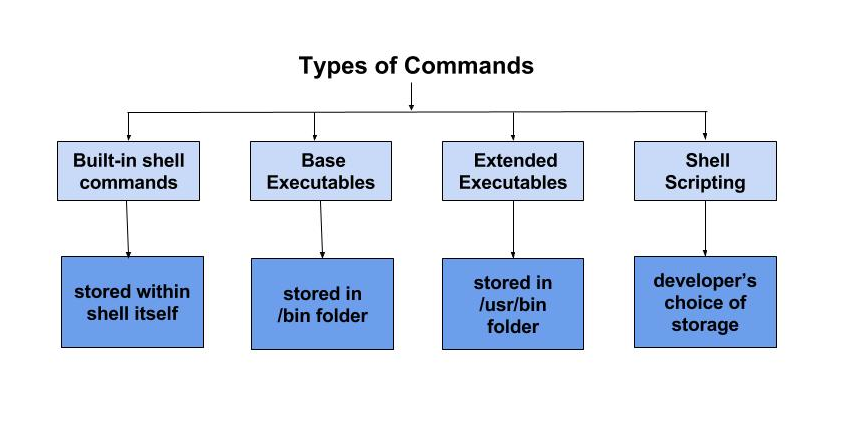
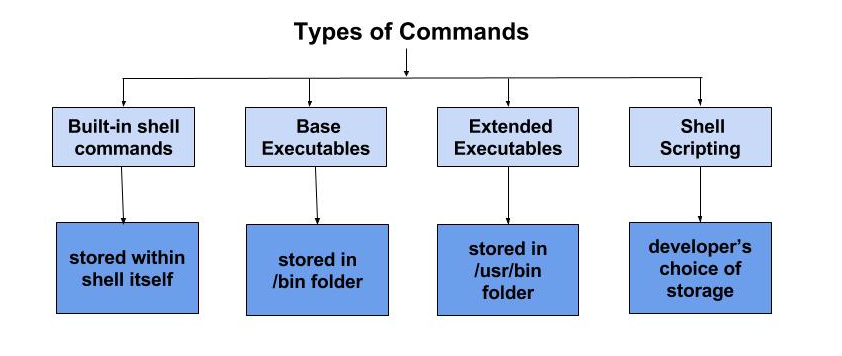
Modified config file

diff --git a/css/custom.scss b/css/custom.scss
@@ -23,6 +23,9 @@ h1, h2, h3, h4, h5, h6 {
   font-family: 'Dosis', sans-serif;
 }
 
+.sizing {
+  width: 100%;
+}
 p, div {
   font-family: 'Dosis', sans-serif;
 }

diff --git a/_posts/2016-2-1-key-terms-and-concepts.md b/_posts/2016-2-1-key-terms-and-concepts.md
@@ -12,8 +12,8 @@ disqus_identifier: 71c56024-04bd-4963-830d-aa5946bf6a70
 As of this writing, I am using Ubuntu 15.04 which is Debian-based Linux operating system.
 
 ## Operating System
-
-![Block Diagram]( /assets/1_OS.png)
+ 
+![Block Diagram]( /assets/1_OS.png){:class="sizing"}
 
 &ensp;&ensp;&ensp;&ensp;Operating system is a low level software which provides communication bridge between hardware and software on a computer. It also manages memory, process, files etc..
 
@@ -23,7 +23,7 @@ As of this writing, I am using Ubuntu 15.04 which is Debian-based Linux operatin
 
 ## Command line interface(CLI)
 
-![Command Line Interface]( /assets/2_CLI.png)
+![Command Line Interface]( /assets/2_CLI.png){:class="sizing"}
 
 &ensp;&ensp;&ensp;&ensp;In ubuntu, a terminal provides command line interface or user interface for the user to interact with underlying OS via shell to complete some tasks. CLI is more efficient way to accomplish a task than GUI in Linux distribution.
 
@@ -43,7 +43,7 @@ As of this writing, I am using Ubuntu 15.04 which is Debian-based Linux operatin
 
 ## Types of Commands
 <br>
-![Commands Types]( /assets/3_commands_types.png)
+![Commands Types]( /assets/3_commands_types.png){:class="sizing"}
 
 **1) Built-in shell commands:** These binaries are the part of the shell itself. Examples are: `cd, eval, exec, exit, pwd, echo etc..`
 
@@ -82,7 +82,7 @@ bye
 
 ##Source code, Compiler and Virtual Machine
 
-![Compilation]( /assets/4_Compilation.png)
+![Compilation]( /assets/4_Compilation.png){:class="sizing"}
 
 &ensp;&ensp;&ensp;&ensp;When a programmer does coding (writing instructions or logic) in any programming language, the code is called source code. Source code is typed in a source file using an editor like sublime text and name the source file with appropriate extension like .c, .java, .rb. Extension tells the compiler that code must obey the rules of corresponding programming language. Source code can not be executed as a program by the computer as it understands only ones and zeros. So code has to be converted into **machine language or bytecode or object code or executables or binaries** which are in the form of ones and zeros for the processor to understand and perform a task. Machine code is not easy for developers to read or modify. Thus we need a special program called a __compiler__ which does the job of converting source code into byte code which is meant for processor to execute. Then executable is passed to a virtual machine to execute it. Compilers are usually stored in folder **/usr/bin**. For example, `/usr/bin/gcc, /usr/bin/javac`
 
@@ -98,7 +98,7 @@ bye
 
 ##Ruby Compilers 
 <br>
-![Ruby Versions]( /assets/5_diff_ruby_version.png)
+![Ruby Versions]( /assets/5_diff_ruby_version.png){:class="sizing"}
 
 &ensp;&ensp;&ensp;&ensp;There are multiple implementations of Ruby compilers like `MRI, REE, Rubinius, Jruby` etc. Depending upon scenarios and environments, developers use different implementations of Ruby.
 
@@ -182,7 +182,7 @@ $bundle show <gemname>
 
 ##rbenv tool
 
-![rbenv tool]( /assets/6_rbenv_workflow.png)
+![rbenv tool]( /assets/6_rbenv_workflow.png){:class="sizing"}
 
 &ensp;&ensp;&ensp;&ensp;It is a ruby version management tool which helps to install and manage different versions of ruby in a given machine. It comes handy when we need to have different ruby environments for different projects.
 
